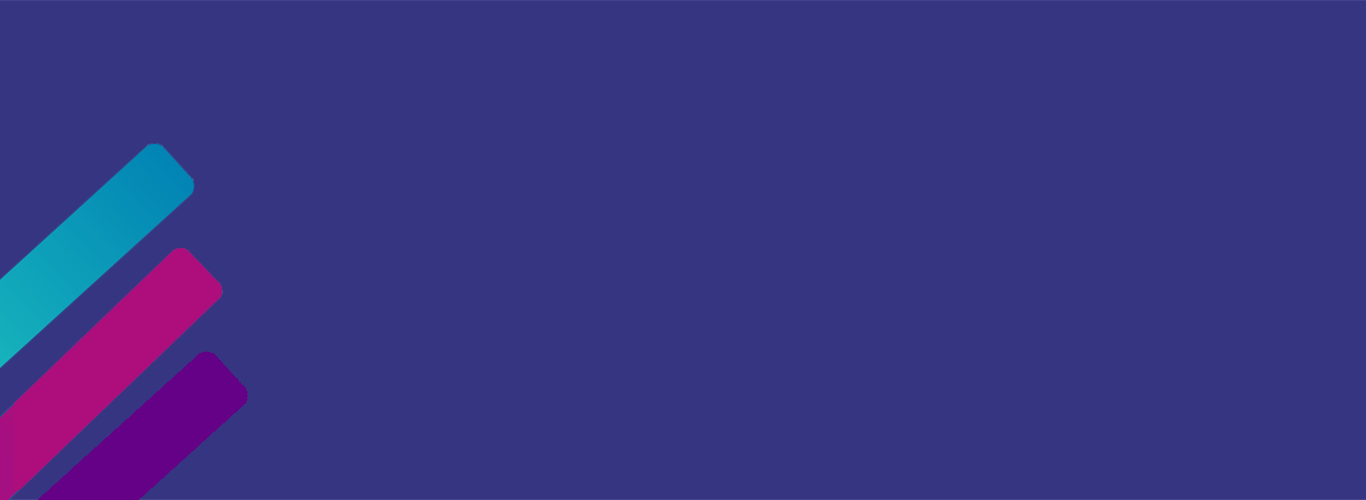
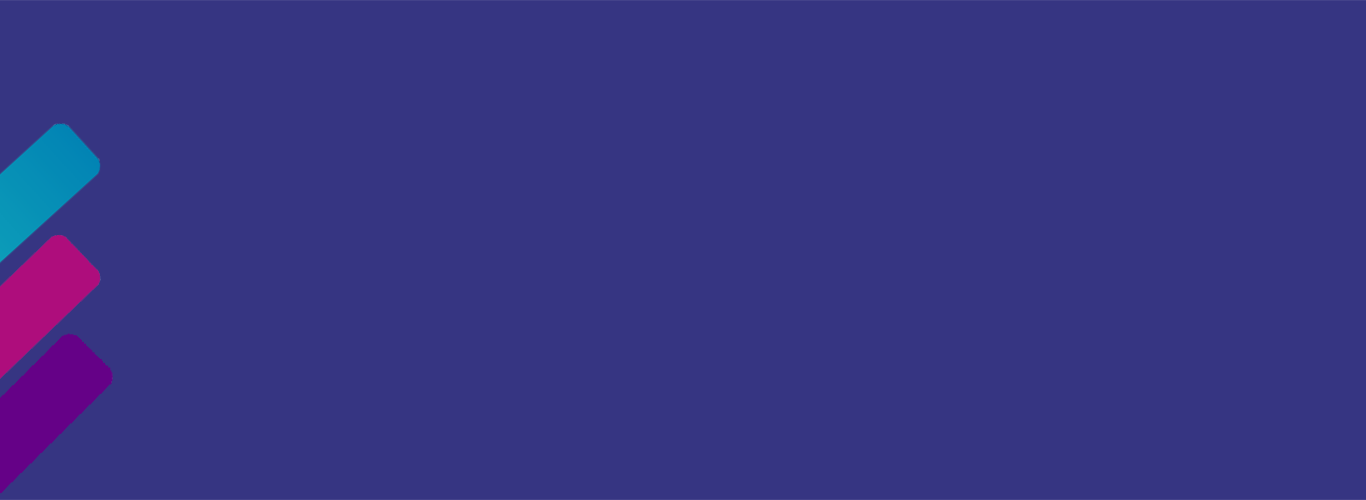
look&feel to mails and WebPage

Changed region(s): [[0.0, 0.24, 0.1845, 1.0]]

diff --git a/Documents/Chat_Mic/HtmlWebPage/appearence.css b/Documents/Chat_Mic/HtmlWebPage/appearence.css
@@ -1,12 +1,11 @@
 .description{
 	text-align: center;
-	font-size: 20px;
-	width: 875px;
-	height:490px;
+	min-height: inherit;
+	font-size: 25px;
 	border-right: solid rgba(54,53,130,2.00) 1px;
 	border-top: solid rgba(54,53,130,2.00) 2px;
 	border-left: solid rgba(54,53,130,2.00) 1px;
-	background-image: url(cid:ninjaBackground);
+	background-image: url(background.png);
 }
 
 .ninjaImg{
@@ -21,13 +20,13 @@ p{
 .title{
 	margin-top:5%;
 	color: rgba(255,255,255,1.00);
-	font-size: 25px;
+	font-size: 30px;
 }
 
 .code{
 	color: rgba(255,255,255,1.00);
 	font-weight:bold;
-	font-size: 30px;
+	font-size: 20px;
 }
 .header{
 	background-color: rgba(249,248,254,1.00); 
@@ -38,7 +37,7 @@ p{
 
 .headerTitle{
 	margin-left:13%;
-	font-size: 35px;
+	font-size: 40px;
 }
 
 footer{
@@ -47,5 +46,5 @@ footer{
 	font-size:15px;
 	background-color:rgba(231,23,96,1.00);
 	color: rgba(255,255,255,1.00);
-	margin-top:17%;
+	margin-top:25%;
 }

diff --git a/Documents/Chat_Mic/HtmlWebPage/HtmlSamplePage.html b/Documents/Chat_Mic/HtmlWebPage/HtmlSamplePage.html
@@ -1,0 +1,23 @@
+<!doctype html>
+<html>
+<head>
+<meta charset="utf-8">
+<meta name="viewport" content="width=device-width, initial-scale=1.0">
+<title>Sample page for our chatbot</title>
+<link rel="stylesheet" type="text/css" href="appearence.css">
+</head>
+<body>
+<div class="description">
+<div class="header">
+<span class="headerTitle">Test page for chatbot integration</span><div class="ninjaImg"><img style="width:100px; height:100px;" src="ninja_logo.png">
+</div>
+</div>
+<div class="title">Welcome!</div>
+<p>
+This is a test page for our brand new chatbot integration to TicketNinja.
+</p>
+<!-- The chatbot comes here... -->
+<footer>Copyright TicketNinja.io - All rigths reserved.</footer>
+</div>
+</body>
+</html>

diff --git a/Documents/Chat_Mic/TicketNinja_Pilot/src/main/resources/static/htmlmailHUN.html b/Documents/Chat_Mic/TicketNinja_Pilot/src/main/resources/static/htmlmailHUN.html
@@ -11,8 +11,7 @@
 <body>
 <div class="description">
 <div class="header">
-<span class="headerTitle">Email verifikáció</span><div class="ninjaImg"><img style="width:100px; height:100px;" src="cid:ninjaLogo">
-</div>
+<span class="headerTitle">Email verifikáció</span><div class="ninjaImg"><img style="width:100px; height:100px;" src="cid:ninjaLogo"></div>
 </div>
 <div class="title">Kedves Szervező!</div>
 <p>
